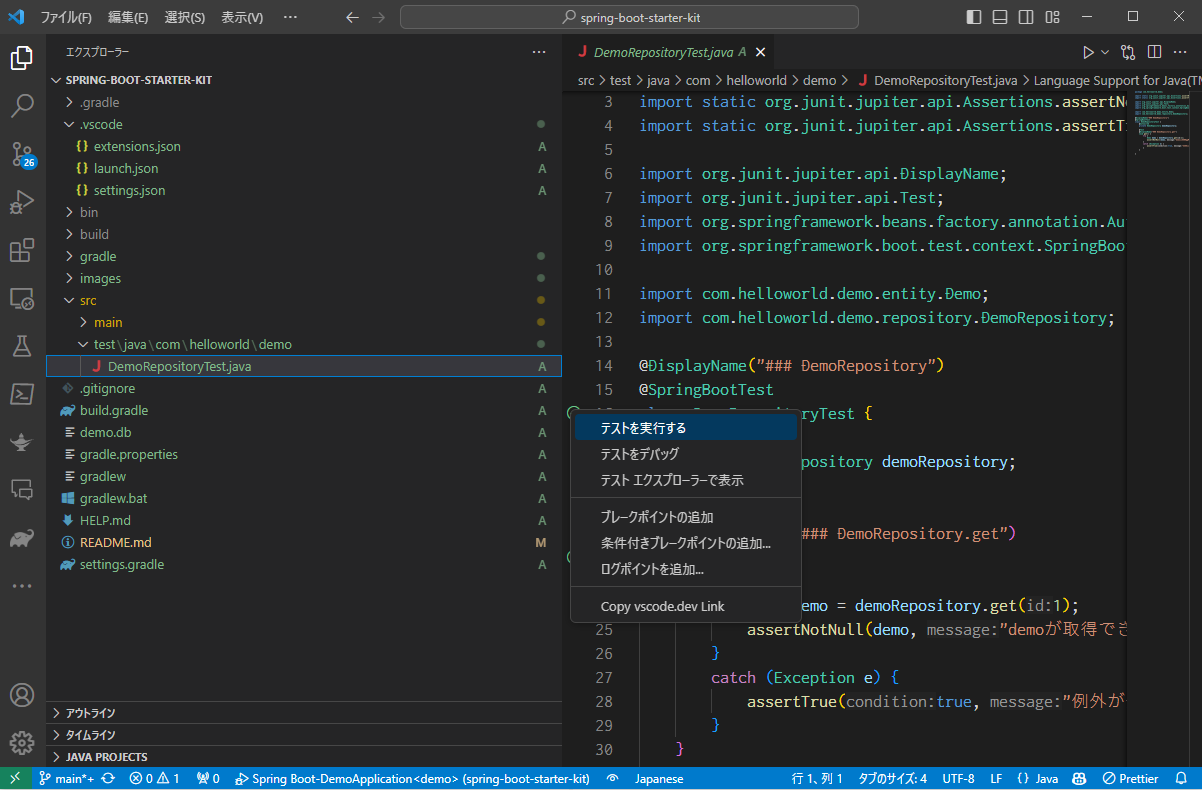
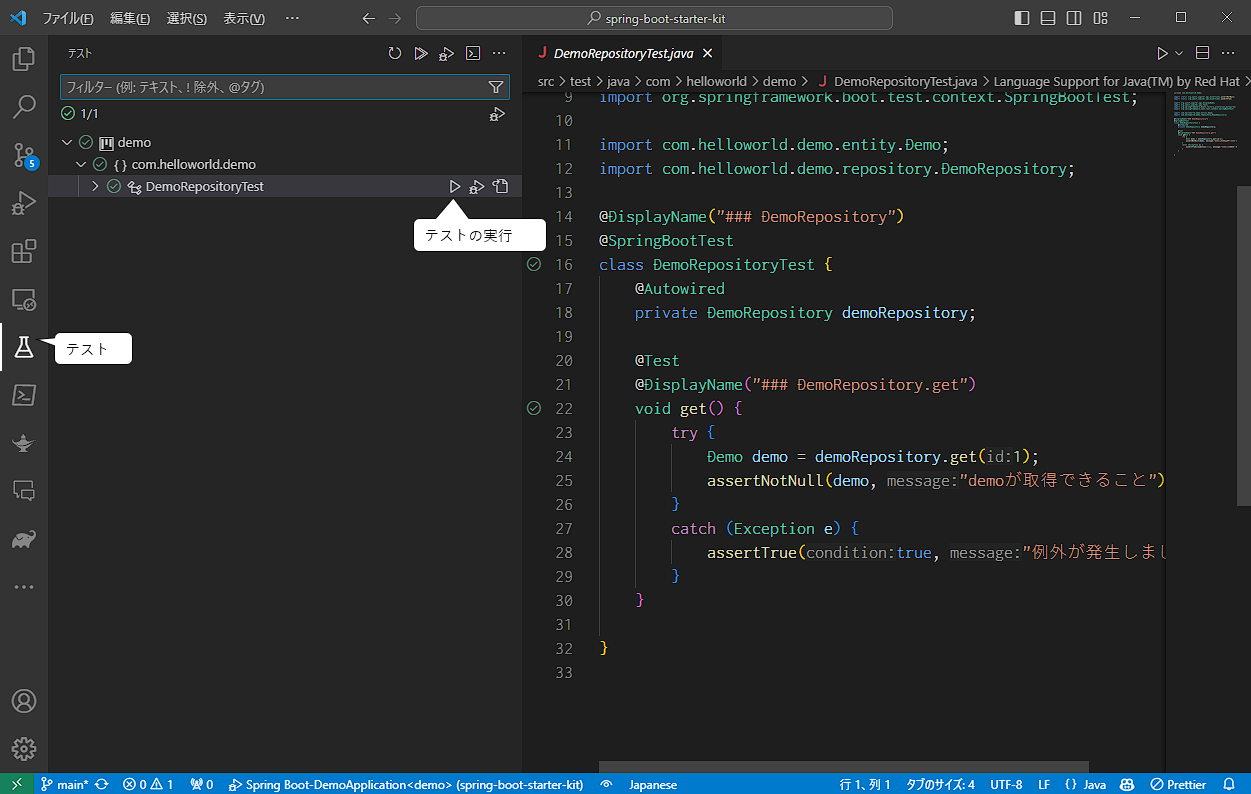
TypeScriptの自動コンパイル追加

diff --git a/README.md b/README.md
@@ -18,6 +18,8 @@
 - [確認方法](#confirm)
 - [単体テスト](#test)
 - [ディレクトリ構成について](#dir)
+- [その他](#other)
+  - TypeScriptの自動コンパイル
 - [TODO](#todo)
 
 
@@ -44,6 +46,13 @@
     JavaScriptベースのプロジェクトで使用されるパッケージ管理システムです。npmを使用することで、他の開発者が共有しているJavaScriptライブラリやツールをプロジェクトに追加することができます。
 
     https://nodejs.org/en/download
+
+    npmをインストールしたら、コマンドプロンプトを開いて以下のコマンドを実行してください。  
+    TypeScriptをインストールします。
+
+    ```bash
+    npm install -g typescript
+    ```
 
     ※ 64bit版 Windows Installerを選択
 
@@ -90,7 +99,7 @@
 
 ## 実行方法  <a name="howtorun"></a>
 
-アクティビティサイドバーGradleを選択してサイドバーを切り替えます。  
+アクティビティバーからGradleを選択してサイドバーを切り替えます。  
 切り替えたらdemo > Tasks > application > bootRun から DebugTask を実行します。
 
 ![実行方法](images/springboot_debug.png)
@@ -101,7 +110,8 @@
 
 ## 単体テスト <a name="test"></a>
 
-単体テストは、テストクラスを開いてチェックアイコンをクリックするか、右クリックから「テストを実行する」を選択して実行できます。
+アクティビティバーからテストを選択してサイドバーを切り替えます。    
+切り替えたら、ツリー構成から任意のテストを実行できます。
 
 ![単体テスト](images/springboot_test.png)
 
@@ -118,6 +128,13 @@
 | src/main/resources/templates| thymeleafのテンプレート       |
 | src/ts                   | TypeScriptのソースコード<br/>BuildするとJavaScriptにコンパイルされ、staticディレクトリに配置されます。 |
 | src/test                 | テストコードの格納先             |
+
+## その他 <a name="other"></a>
+
+### TypeScriptの自動コンパイル
+
+自動コンパイルのタスクを実行すると、TypeScriptの修正の度にサーバーを再起動しなくて済むようになります。  
+`Ctrl+Shift+P`でコマンドパレットを開き、`Tasks: Run Task`を選択して、`TypeScript Watch`を選択します。
 
 ## TODO <a name="todo"></a>
 
